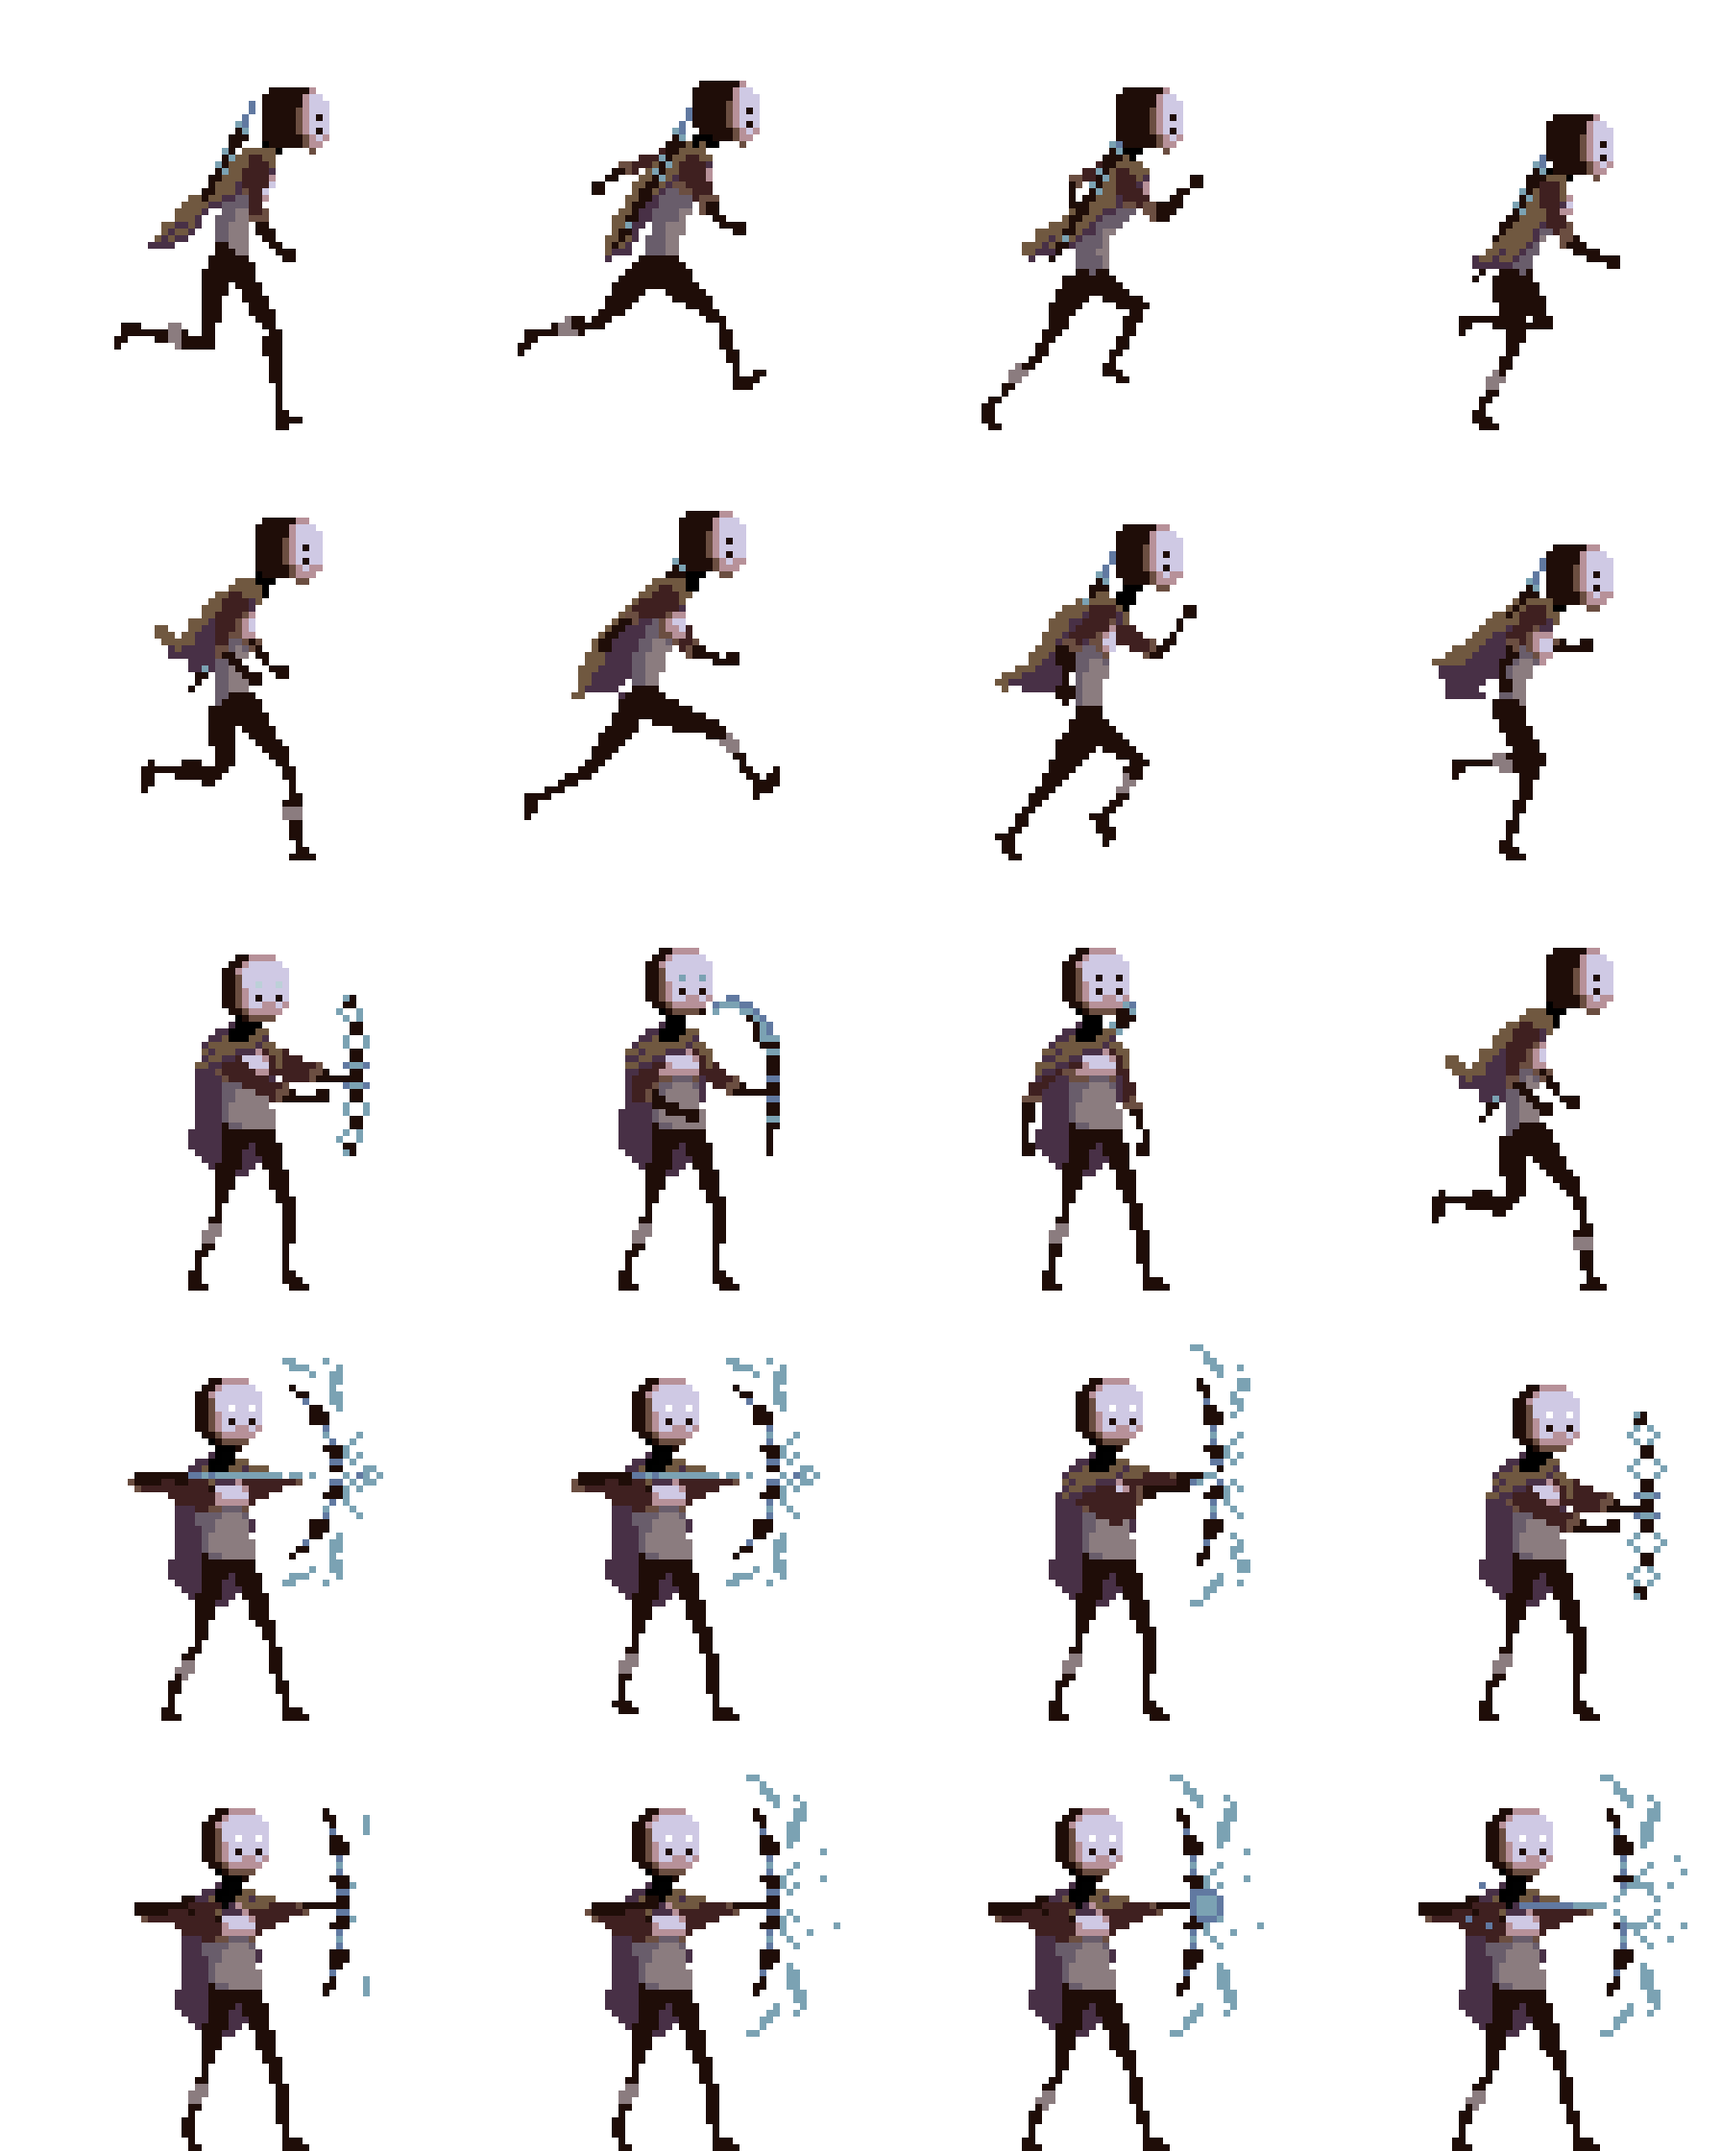
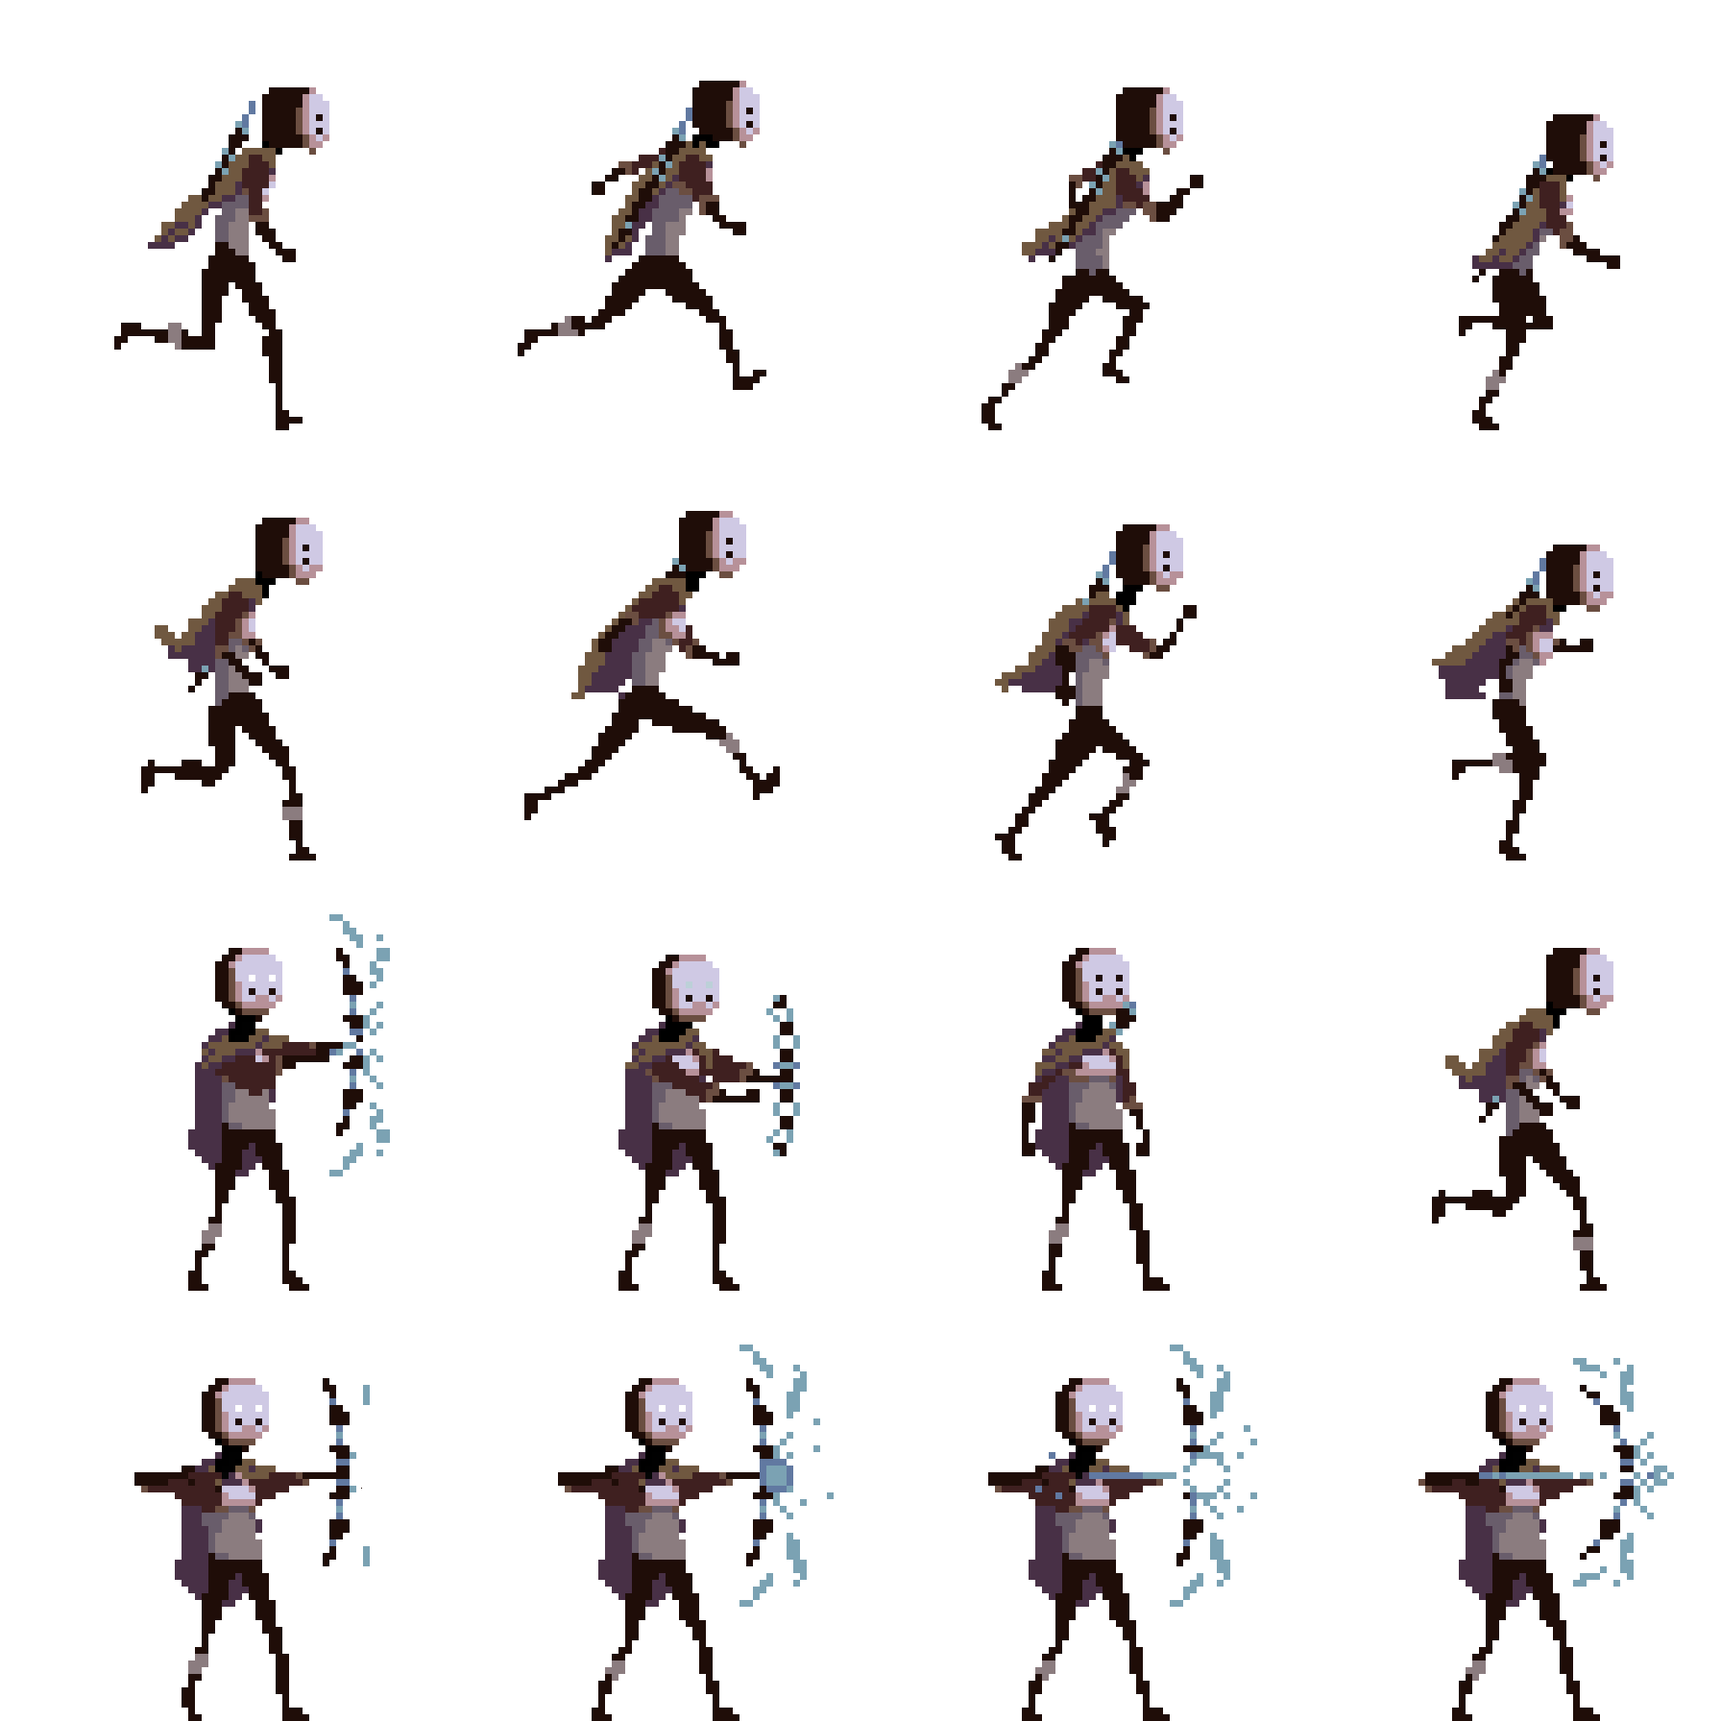
NovoJogo

diff --git a/NovoJogo.py b/NovoJogo.py
@@ -1,0 +1,108 @@
+import pygame
+from os import path
+import random
+
+img_dir = path.join(path.dirname(__file__),'img')
+
+WIDTH = 800
+HEIGHT = 600 
+
+FPS = 60
+
+WHITE  = (255, 255, 255)
+BLACK  = (0, 0, 0)
+RED    = (255, 0, 0)
+GREEN  = (0, 255, 0)
+BLUE   = (0, 0, 255)
+YELLOW = (255, 255, 0)
+
+class Player(pygame.sprite.Sprite):
+    def __init__(self):
+        pygame.sprite.Sprite.__init__(self)
+        
+        self.image = pygame.image.load(path.join(img_dir,'PersonagemTeste.png')).convert_alpha()
+        self.image = pygame.transform.scale(self.image,(50,50))
+        
+        self.image.set_colorkey(BLACK)
+        
+        self.rect = self.image.get_rect()
+        self.rect.x = WIDTH/2 - 100
+        self.rect.y = HEIGHT - 50
+        
+        self.pos = 0
+        
+    def update(self):
+        self.rect.x += self.pos
+        
+        if self.rect.x > WIDTH/2 + 50:
+            self.rect.x = WIDTH/2 + 50
+        if self.rect.x < WIDTH/2 - 100:
+            self.rect.x = WIDTH/2 - 100
+        
+#class Tronco(pygame.sprite.Sprite):
+#    def __init__(self):
+#        pygame.sprite.Sprite.__init__(self)
+#        
+#        self.image = pygame.image.load(path.join(img_dir,'Tronco.png')).convert_alpha()
+#        
+#        self.image.set_colorkey(BLACK)
+#        
+#        self.rect.x = WIDTH/2 - 50
+#        self.rect.y = HEIGHT
+#        
+#    def update(self):
+
+pygame.init()
+pygame.mixer.init()
+screen = pygame.display.set_mode((WIDTH,HEIGHT))
+clock = pygame.time.Clock()
+pygame.display.set_caption("Timberman!!!")
+
+player = Player()
+
+all_sprites = pygame.sprite.Group()
+all_sprites.add(player)
+
+
+#tronco = Tronco()
+        
+try:        
+    running = True
+            
+    while running:
+    
+        clock.tick(FPS)
+        
+        for event in pygame.event.get():
+            
+            if event.type == pygame.QUIT:
+                running = False
+            
+            if event.type == pygame.KEYDOWN:
+                if event.key == pygame.K_RIGHT:
+                    player.pos = 150
+                    
+                if event.key == pygame.K_LEFT:
+                    player.pos = -200
+                
+            if event.type == pygame.KEYUP:
+                if event.key == pygame.K_LEFT:
+                    player.pos = 0
+                if event.key == pygame.K_RIGHT:
+                    player.pos = 0
+            
+        all_sprites.update()
+               # if event.key == pygame.K_SPACE:
+
+                    
+#hits:
+                    
+        screen.fill(BLACK)
+#        screen.blit(background.image, background.rect)
+#        screen.blit(text, textRect)
+        all_sprites.draw(screen)
+        pygame.display.flip()
+                    
+                
+finally:
+    pygame.quit()

diff --git a/CodigoPF.py b/CodigoPF.py
@@ -82,14 +82,14 @@ class Player(pygame.sprite.Sprite):
         
         player_sheet = pygame.transform.scale(player_sheet,(480,480))
         
-        spritesheet = load_spritesheet(player_sheet,3,3)
+        spritesheet = load_spritesheet(player_sheet,4,4)
         self.animations = {
             WALKING: spritesheet[0:7],
             STILL: spritesheet[7:12],
             SHOOTING: spritesheet[12:18],
             }
         
-        self.state = WALKING
+        self.state = STILL
         
         self.animation = self.animations[self.state]
         
@@ -389,6 +389,7 @@ try:
                     if current_time - previous_time > DELAY_TIRO:
                         previous_time = current_time
                         if SENTIDO == 1:
+                            player.state = SHOOTING
                             bullet = Bullet(player.rect.right, player.rect.centery, 7)
                             bala = pygame.image.load(path.join(img_dir, bala_frente)).convert_alpha() 
                             bullet.image = bala
@@ -413,6 +414,7 @@ try:
                         PONTOS -= 5 
                             
             if event.type == pygame.KEYUP:
+                player.state = STILL
                 if event.key == pygame.K_LEFT: 
                     player.speedx = 0
                     background.speedx = 0
